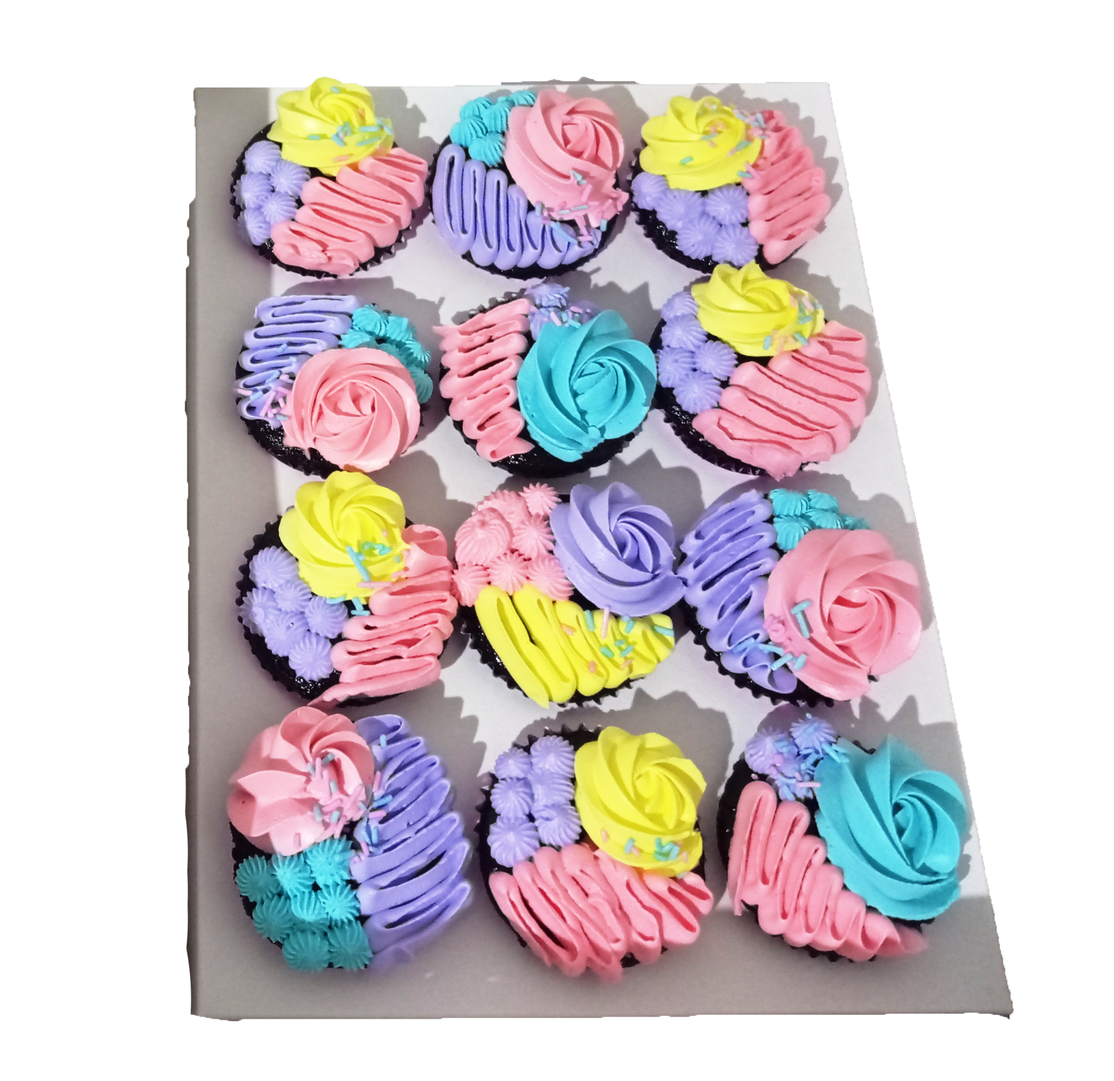
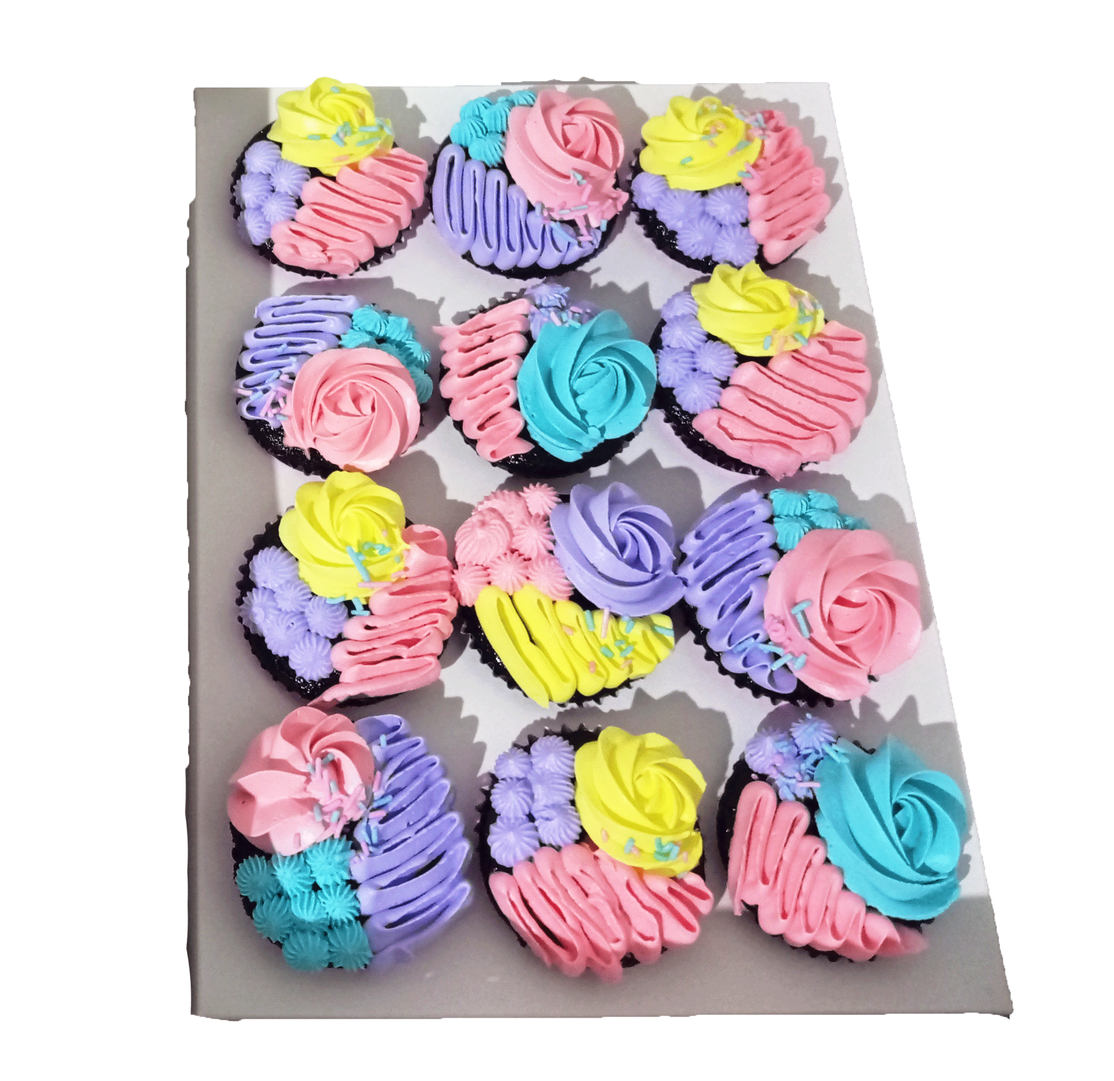
optimized images

diff --git a/index.html b/index.html
@@ -156,7 +156,7 @@
                     <p>₱ 850.00</p>
                 </div>
                 <div class="listItem" data-aos="fade-up" data-aos-easing="linear" data-aos-duration="250">
-                    <img loading="lazy" src="images/1643698693636.png" />
+                    <img loading="lazy" src="images/2022052238213.png" />
                     <div>
                         <span class="fa fa-star checked"></span>
                         <span class="fa fa-star checked"></span>
@@ -289,7 +289,7 @@
                                 <img loading="lazy" src="images/themed/6.png" />
                             </div>
                             <div class="swiper-slide">
-                                <img loading="lazy" src="images/themed/7.jpg" />
+                                <img loading="lazy" src="images/themed/7.png" />
                             </div>
                             <div class="swiper-slide">
                                 <img loading="lazy" src="images/themed/8.png" />
